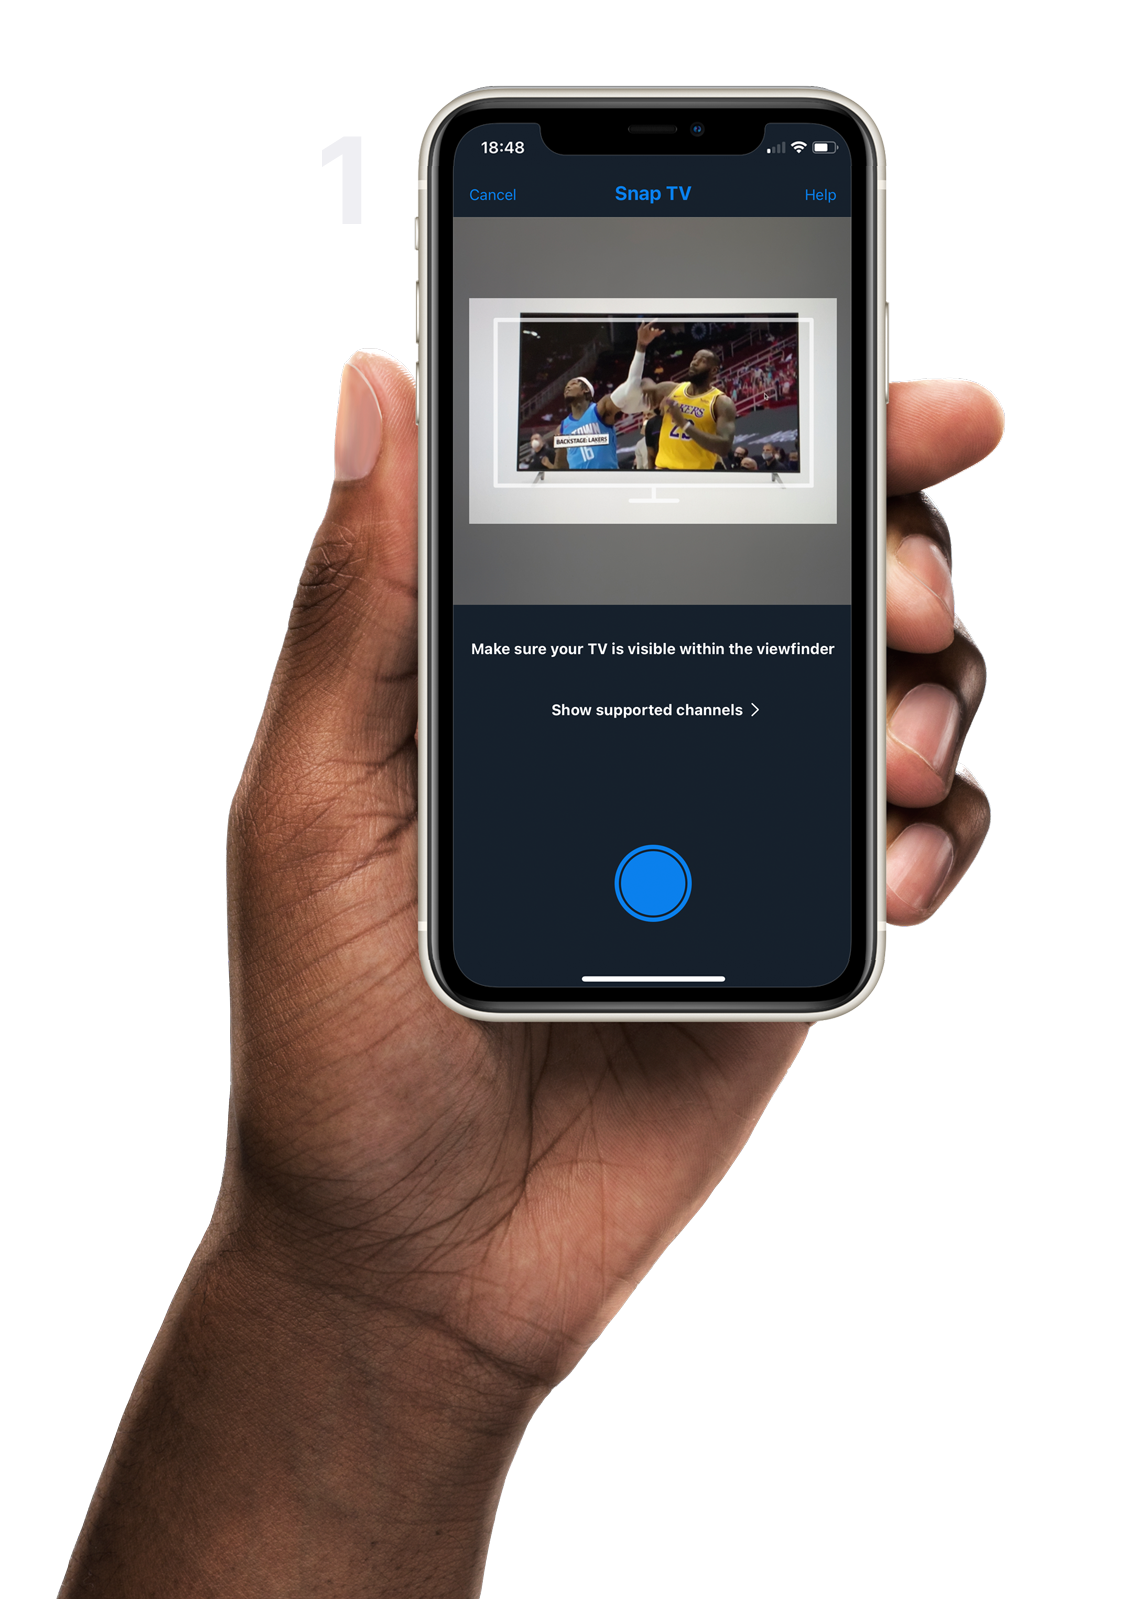
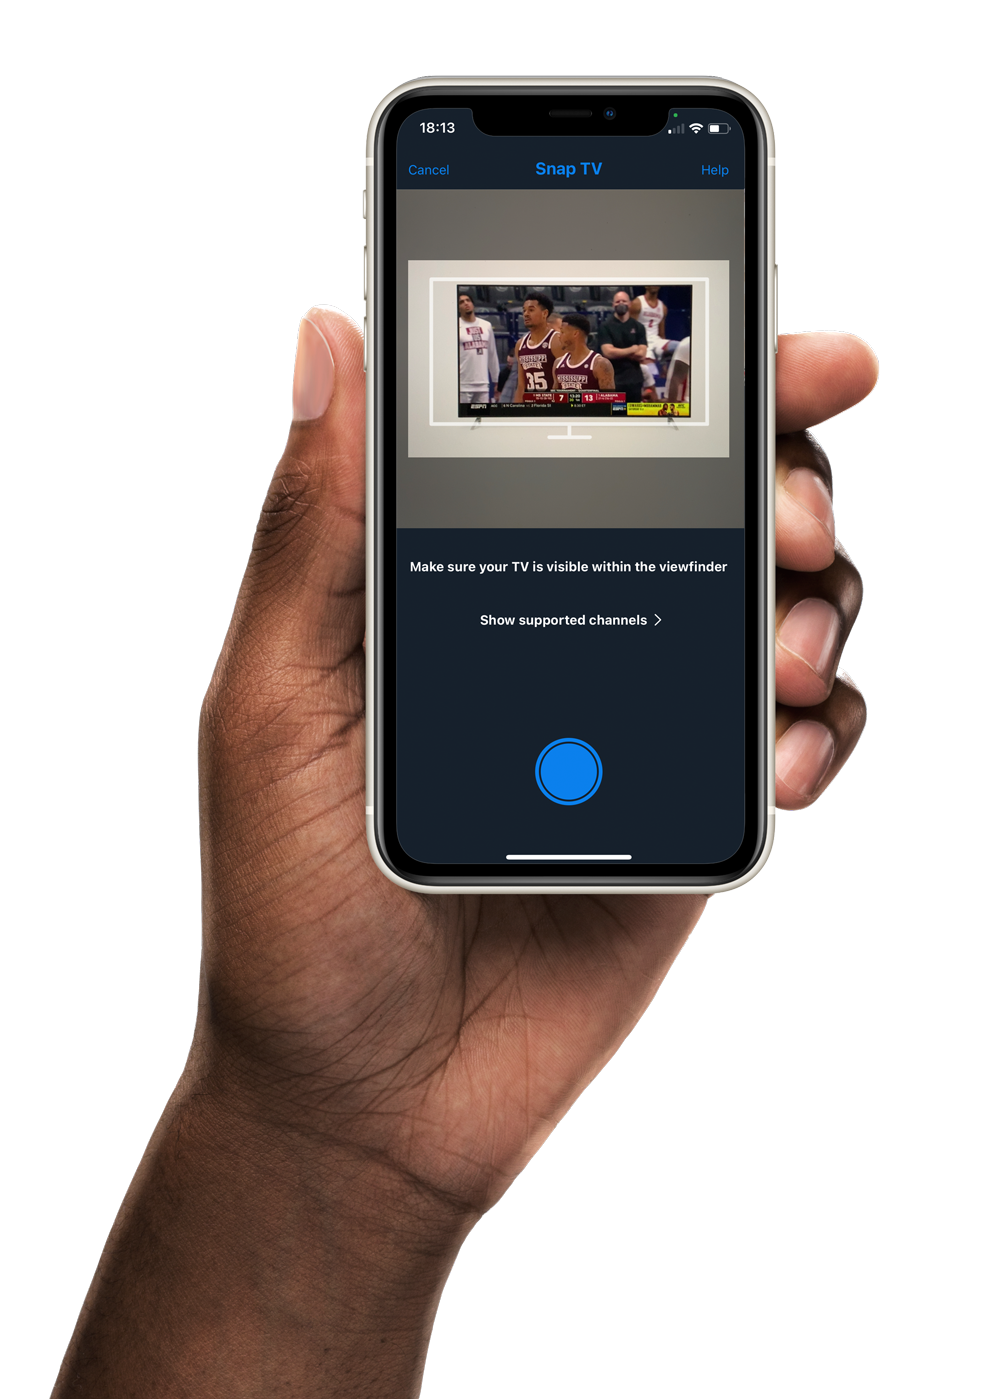
update content images

diff --git a/index.html b/index.html
@@ -57,20 +57,20 @@
         </div>
       </div>
 
-      <section class="flex justify-center pb-2 xl:pb-32 bg-gray-100">
+      <section class="flex flex-col md:flex-row justify-center pb-2 xl:pb-32 bg-gray-100">
         <div class="relative lg:w-6/12">
-          <div class="w-full p-16 -mt-8 hidden lg:block sticky top-16">
+          <div class="w-full p-16 -mt-8 lg:block sticky top-16">
             <img
               class="h-auto"
-              src="assets/img/television_NBA.png"
+              src="assets/img/television.png"
               alt="TV"
             />
           </div>
-          <div class="absolute top-16 w-6/12 left-0 p-16 hidden lg:block">
+          <div class="absolute top-16 w-6/12 left-0 p-16 lg:block">
             <img
               class="w-auto"
               style="max-width: 40vw;"
-              src="assets/img/iPhoneHand_NBA.gif"
+              src="assets/img/iPhoneHand.gif"
               alt="iPhone"
             />
           </div>
